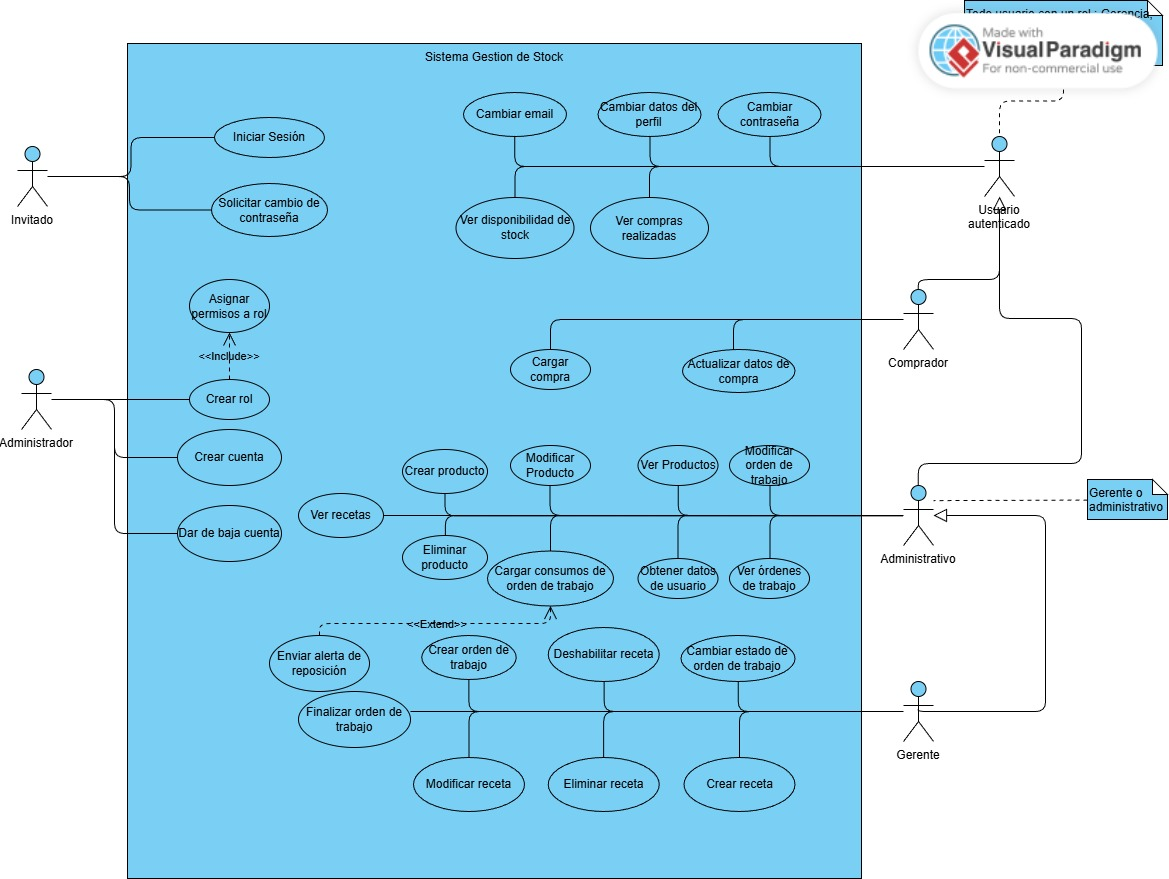
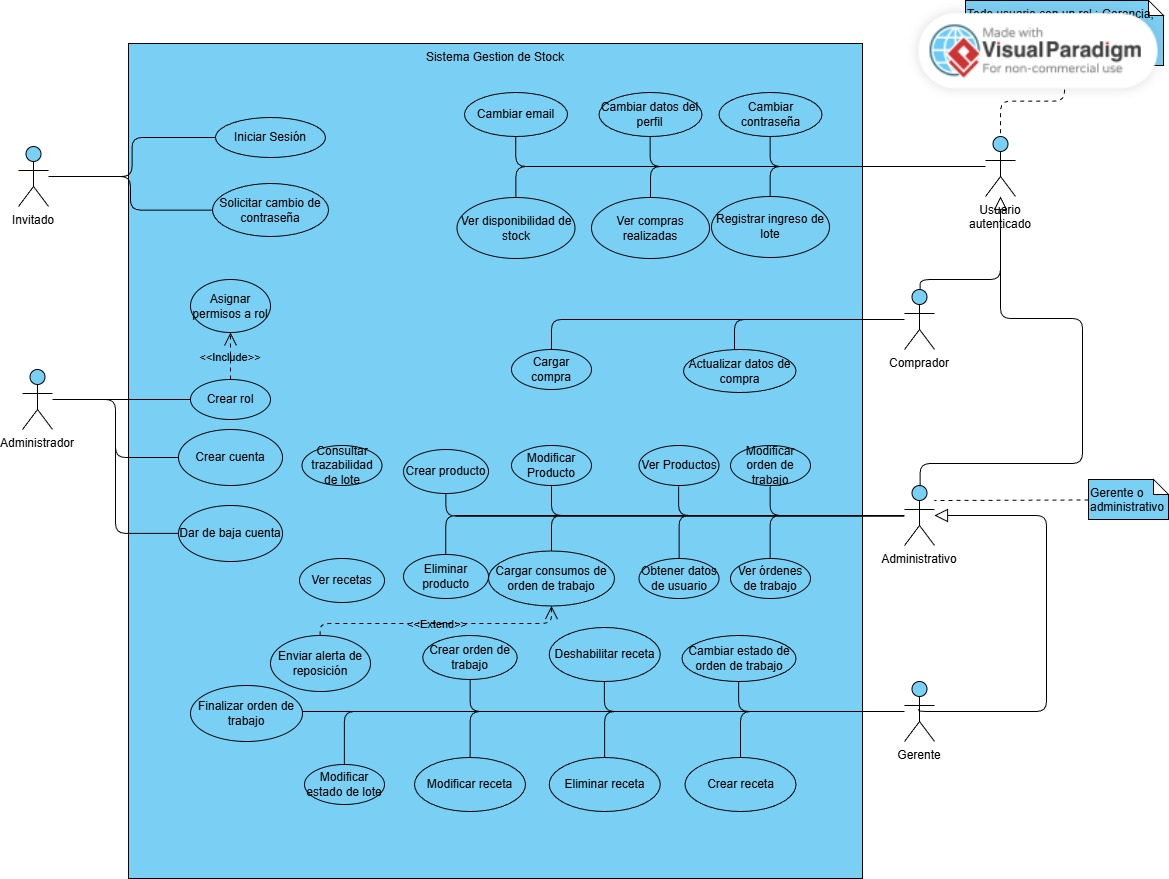
docs: agregar flujos de lotes (FEFO) y nuevos endpoints

diff --git a/docs/Diagramas_Actuales/Especificaciones/CU_29_Cargar_consumos_de_orden_de_trabajo.md b/docs/Diagramas_Actuales/Especificaciones/CU_29_Cargar_consumos_de_orden_de_trabajo.md
@@ -10,14 +10,17 @@
 * El actor debe tener sesión iniciada 
 * Debe existir al menos una orden de trabajo en el sistema que esté en el estado `INICIADA` y haya finalizado en producción.
 
+### Reglas de Negocio
+* **Prioridad para la elección de lotes:** El negocio implementa FEFO (First Expires, First Out) para la prioridad de selección de los lotes de manera automática
+
 ### Flujo Normal
   1. El actor inicia el caso de uso
   2. El sistema carga una lista desplegable de todas las órdenes de Trabajo en estado `INICIADA`.
   3. El actor selecciona la órden que quiere cargar.
-  4. El sistema muestra una lista de todos los productos utilizados para realizar la receta indicada en la órden, sus cantidades esperadas y solicita las cantidades reales.
-  5. Para cada producto en la lista, el actor ingresa la cantidad real de insumos utilizados y presiona "Confirmar".
+  4. El sistema muestra una lista de todos los productos utilizados para realizar la receta indicada en la órden, sus cantidades esperadas y solicita las cantidades reales. Además, el sistema calcula. sugiere y pre-completa la cantidad de lotes necesarios para satisfacer las cantidades de acuerdo a las Reglas del Negocio.
+  5. Para cada producto en la lista, el actor ingresa la cantidad real de insumos utilizados, los lotes de dichos insumos y presiona "Confirmar".
   6. El sistema verifica que los insumos utilizados se encuentren en un rango aceptable definido previamente.
-  7. El sistema actualiza el stock real en la base de datos y actualiza el estado de la orden a `FINALIZADA`.
+  7. El sistema actualiza el stock real en la base de datos, la cantidad actual de cada lote y actualiza el estado de la orden a `FINALIZADA`.
   8. El sistema muestra un mensaje de éxito y finaliza el caso de uso.
 
 ### Flujos Alternativos

diff --git a/docs/Diagramas_Actuales/GLOSARIO_CASOS_DE_USO.md b/docs/Diagramas_Actuales/GLOSARIO_CASOS_DE_USO.md
@@ -28,6 +28,9 @@ A continuación se detallan las descripciones funcionales breves de los casos de
 * **CU-17 Crear Producto:** Permite registrar un nuevo artículo en el sistema definiendo sus parámetros base (ID, descripción, unidad de medida, cantidad inicial y umbral mínimo de reposición).
 * **CU-18 Modificar Producto:** Permite actualizar las características de un artículo existente o aplicarle una baja lógica (deshabilitación) para evitar su uso futuro.
 * **CU-19 Eliminar Producto:** Permite la eliminación física de un artículo del sistema, validando estrictamente que no posea dependencias (ej. no formar parte de ninguna receta activa).
+* **CU-30 Consultar Trazabilidad de Lote:** Permite al Gerente o Administrativo buscar un lote específico (por código o por producto) para visualizar su cantidad física actual, su fecha de vencimiento y el historial de todos los movimientos (Kardex) asociados a ese lote.
+* **CU-31 Registrar Ingreso de Lote:** Permite al Comprador (o Administrativo) registrar la entrada física de nueva mercadería al almacén, creando un lote en el sistema con su cantidad inicial, código de proveedor y fecha de vencimiento.
+* **CU-32 Ajustar/Dar de Baja Lote:** Permite al Gerente realizar un ajuste de inventario manual para descontar stock de un lote específico o darlo de baja completamente (por ejemplo, por vencimiento, contaminación o merma en el almacén).
 
 ## Módulo de Producción y Recetas (BOM)
 * **CU-20 Ver Recetas:** Permite explorar el listado de fórmulas de producción y desglosar su composición en subniveles de ingredientes.

diff --git a/docs/CHANGELOG.md b/docs/CHANGELOG.md
@@ -4,6 +4,11 @@ Los diagramas que queden deprecados serán movidos a la carpeta `/Historial_Diag
 
 ---
 
+### [16/03/2026] - Gestión de Lotes, Trazabilidad y Refactor de Documentación
+* **Se agregaron (Casos de Uso):** * Nuevos flujos al Glosario y al Diagrama UML para el ciclo de vida del inventario: `CU-30 Consultar Trazabilidad de Lote`, `CU-31 Registrar Ingreso de Lote` y `CU-32 Ajustar/Dar de Baja Lote`.
+* **Se agregaron (Contrato de API):** * Definición del recurso `/lotes` con endpoints para listar, consultar trazabilidad (Kardex), registrar ingresos y realizar ajustes manuales de stock.
+* **Lógica actualizada:** * **Refactor del CU-29 (Cargar consumos):** Se integró la política de consumo en cascada con prioridad **FEFO** (First Expires, First Out). El sistema ahora pre-completa sugerencias de lotes de forma inteligente, permitiendo al usuario el control final (override) para garantizar la trazabilidad física real.
+
 ### [15/03/2026] - Casos de Uso
 * **Se agregaron:** 
     * Diagrama de Casos de Uso 
